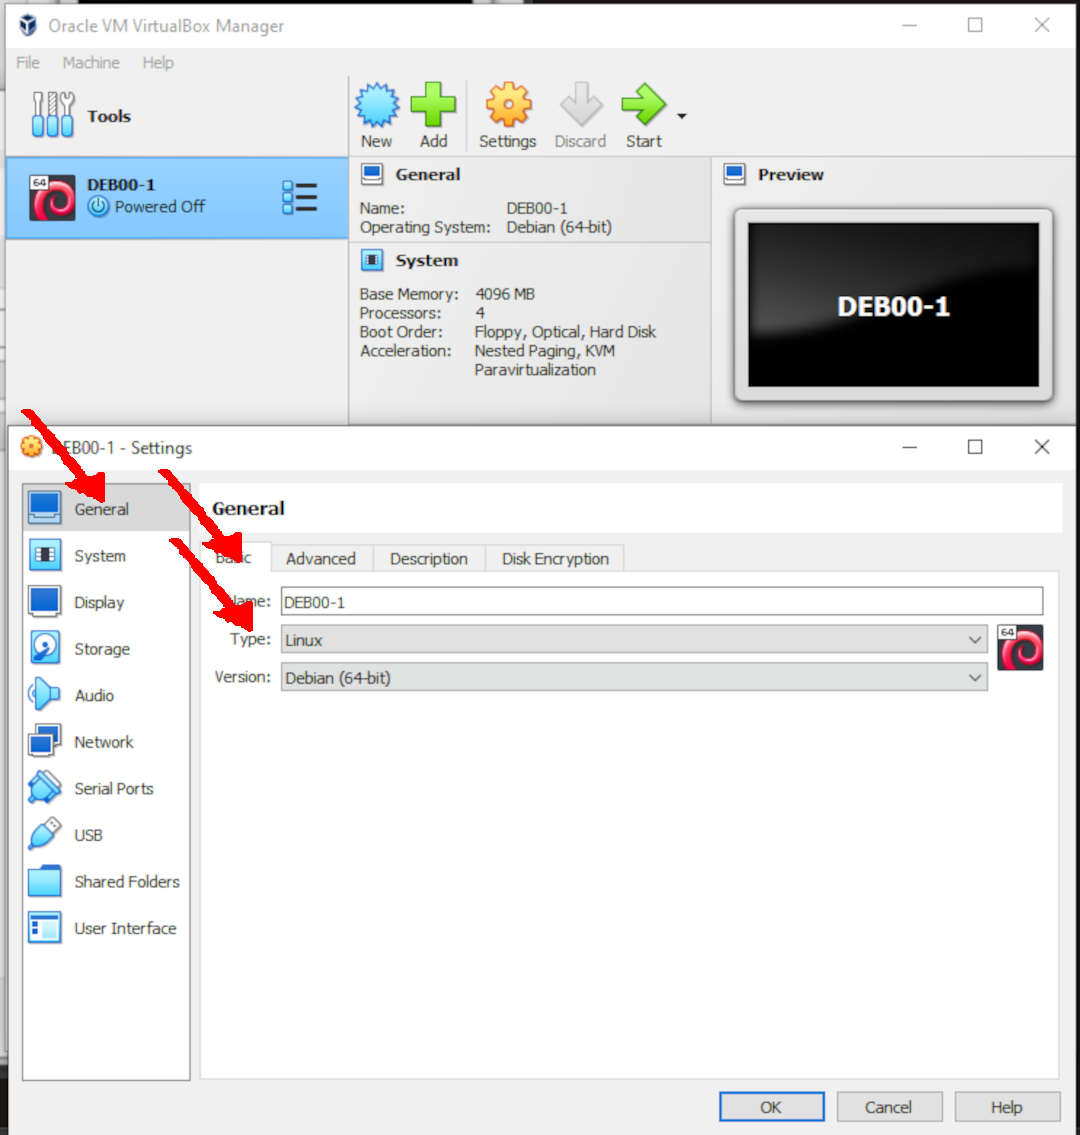
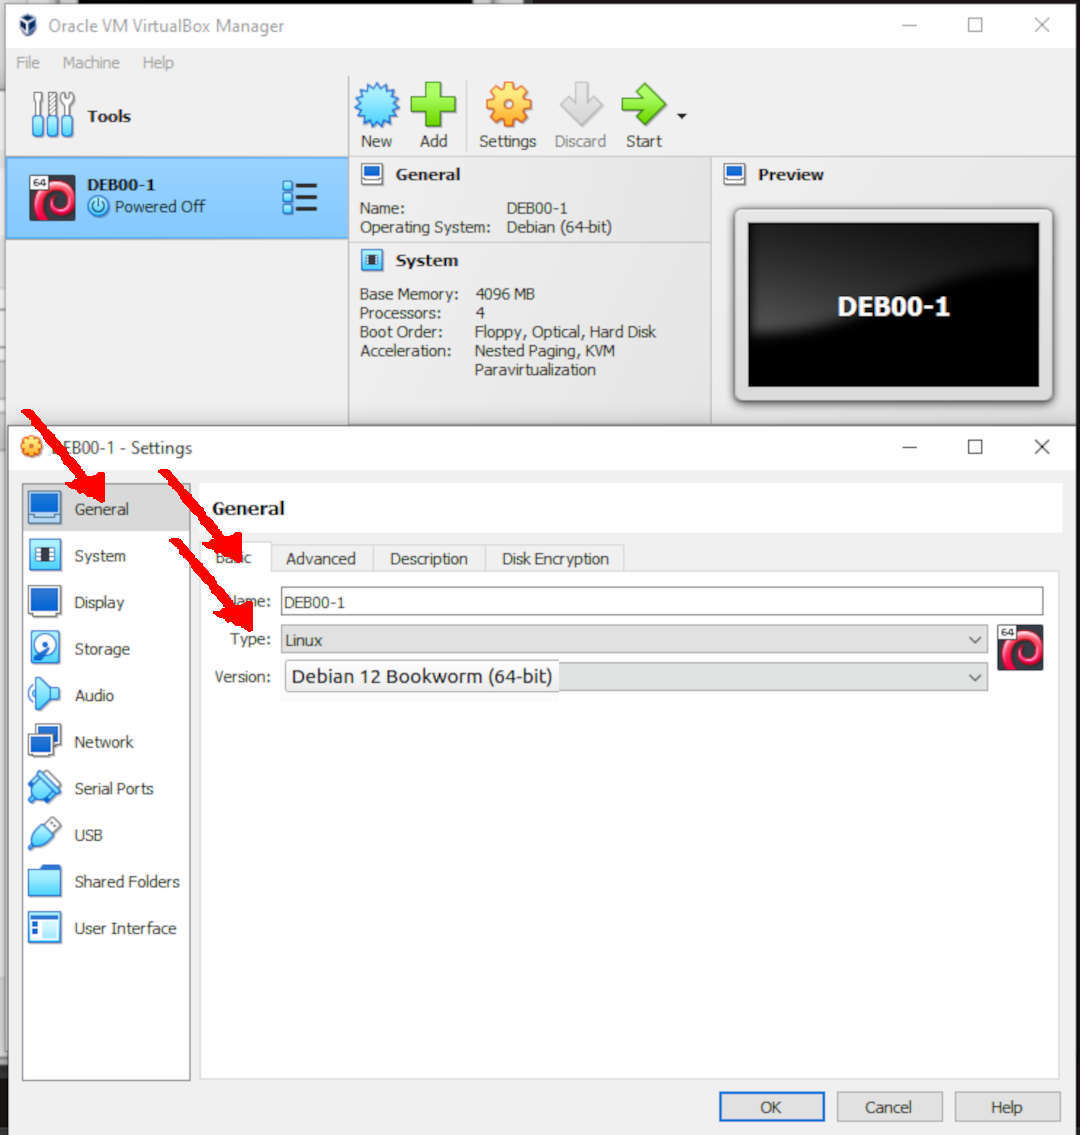
modified:   013.pmd 026.pmd assets/images/{debM1-015.jpg, debVBOX-012.jpg, debVBOX-013.jpg, debVBOX-014.jpg, debVBOX-019.jpg}

Changed region(s): [[0.2444, 0.5551, 0.5194, 0.6167]]

diff --git a/013.md b/013.md
@@ -89,7 +89,8 @@ If you are in "Guided Mode," switch to
 * Name: DEB00-0
 * Type: Linux
 * Version: Debian (64 bit)
-* ATTN: If your Windows “C:” drive is almost full, consider to switch the "Folder" to drive “D:”.
+* <span style="color:red; font-weight:bold; font-size:larger;">ATTN: If your Windows "C:" 
+  drive is almost full, consider to switch the "Folder" to drive "D:".</span>
 
 <img src="{{ site.baseurl }}/assets/images/debVBOX-012.jpg" style="width:960px;"><br><br>
 
@@ -155,9 +156,9 @@ Do not worry about having a 24 GB empty disk! An empty disk does not occupy much
 
 ### General: Basic
 
-* Name: DEB00-0
+* Name: DEB00-1
 * Type: Linux
-* Version: Debian (64 bit)
+* Version: Debian 12 Bookworm (64-bit)
 
 <img src="{{ site.baseurl }}/assets/images/debVBOX-019.jpg" style="width:960px;"><br><br>
 

diff --git a/026.md b/026.md
@@ -141,7 +141,7 @@ apt update && apt upgrade -y && apt install -y $DEBS
 
 ## Debian Packages: OS Additional
 
-Additional packages list for OS232. Copy-paste the following 
+Additional packages list. Copy-paste the following 
 (account: <span style="color:red; font-weight:bold; font-size:larger;">root</span>).
 
 ```

diff --git a/009.md b/009.md
@@ -161,6 +161,7 @@ tagline: M1, Apple, Mac, UTM, Install Debian
 
 * Select: Display (left)
 * Cross-check options (right)
+  * Emulated Display Card: virtio-ramfb-gl (GPU Supported)
 
 <img src="{{ site.baseurl }}/assets/images/debM1-015.jpg" style="width:960px;"><br><br>
 

diff --git a/004.md b/004.md
@@ -85,7 +85,7 @@ all: $(MD_FILES) .siteHack
 ### _config.yml
 
 ```
-version:          "0182--30-Jul-2024"
+version:          "0183--31-Jul-2024"
 copyright:        "2021-2024"
 title:            "This Is How Me Do It!"
 author:           "C. BinKadal"
